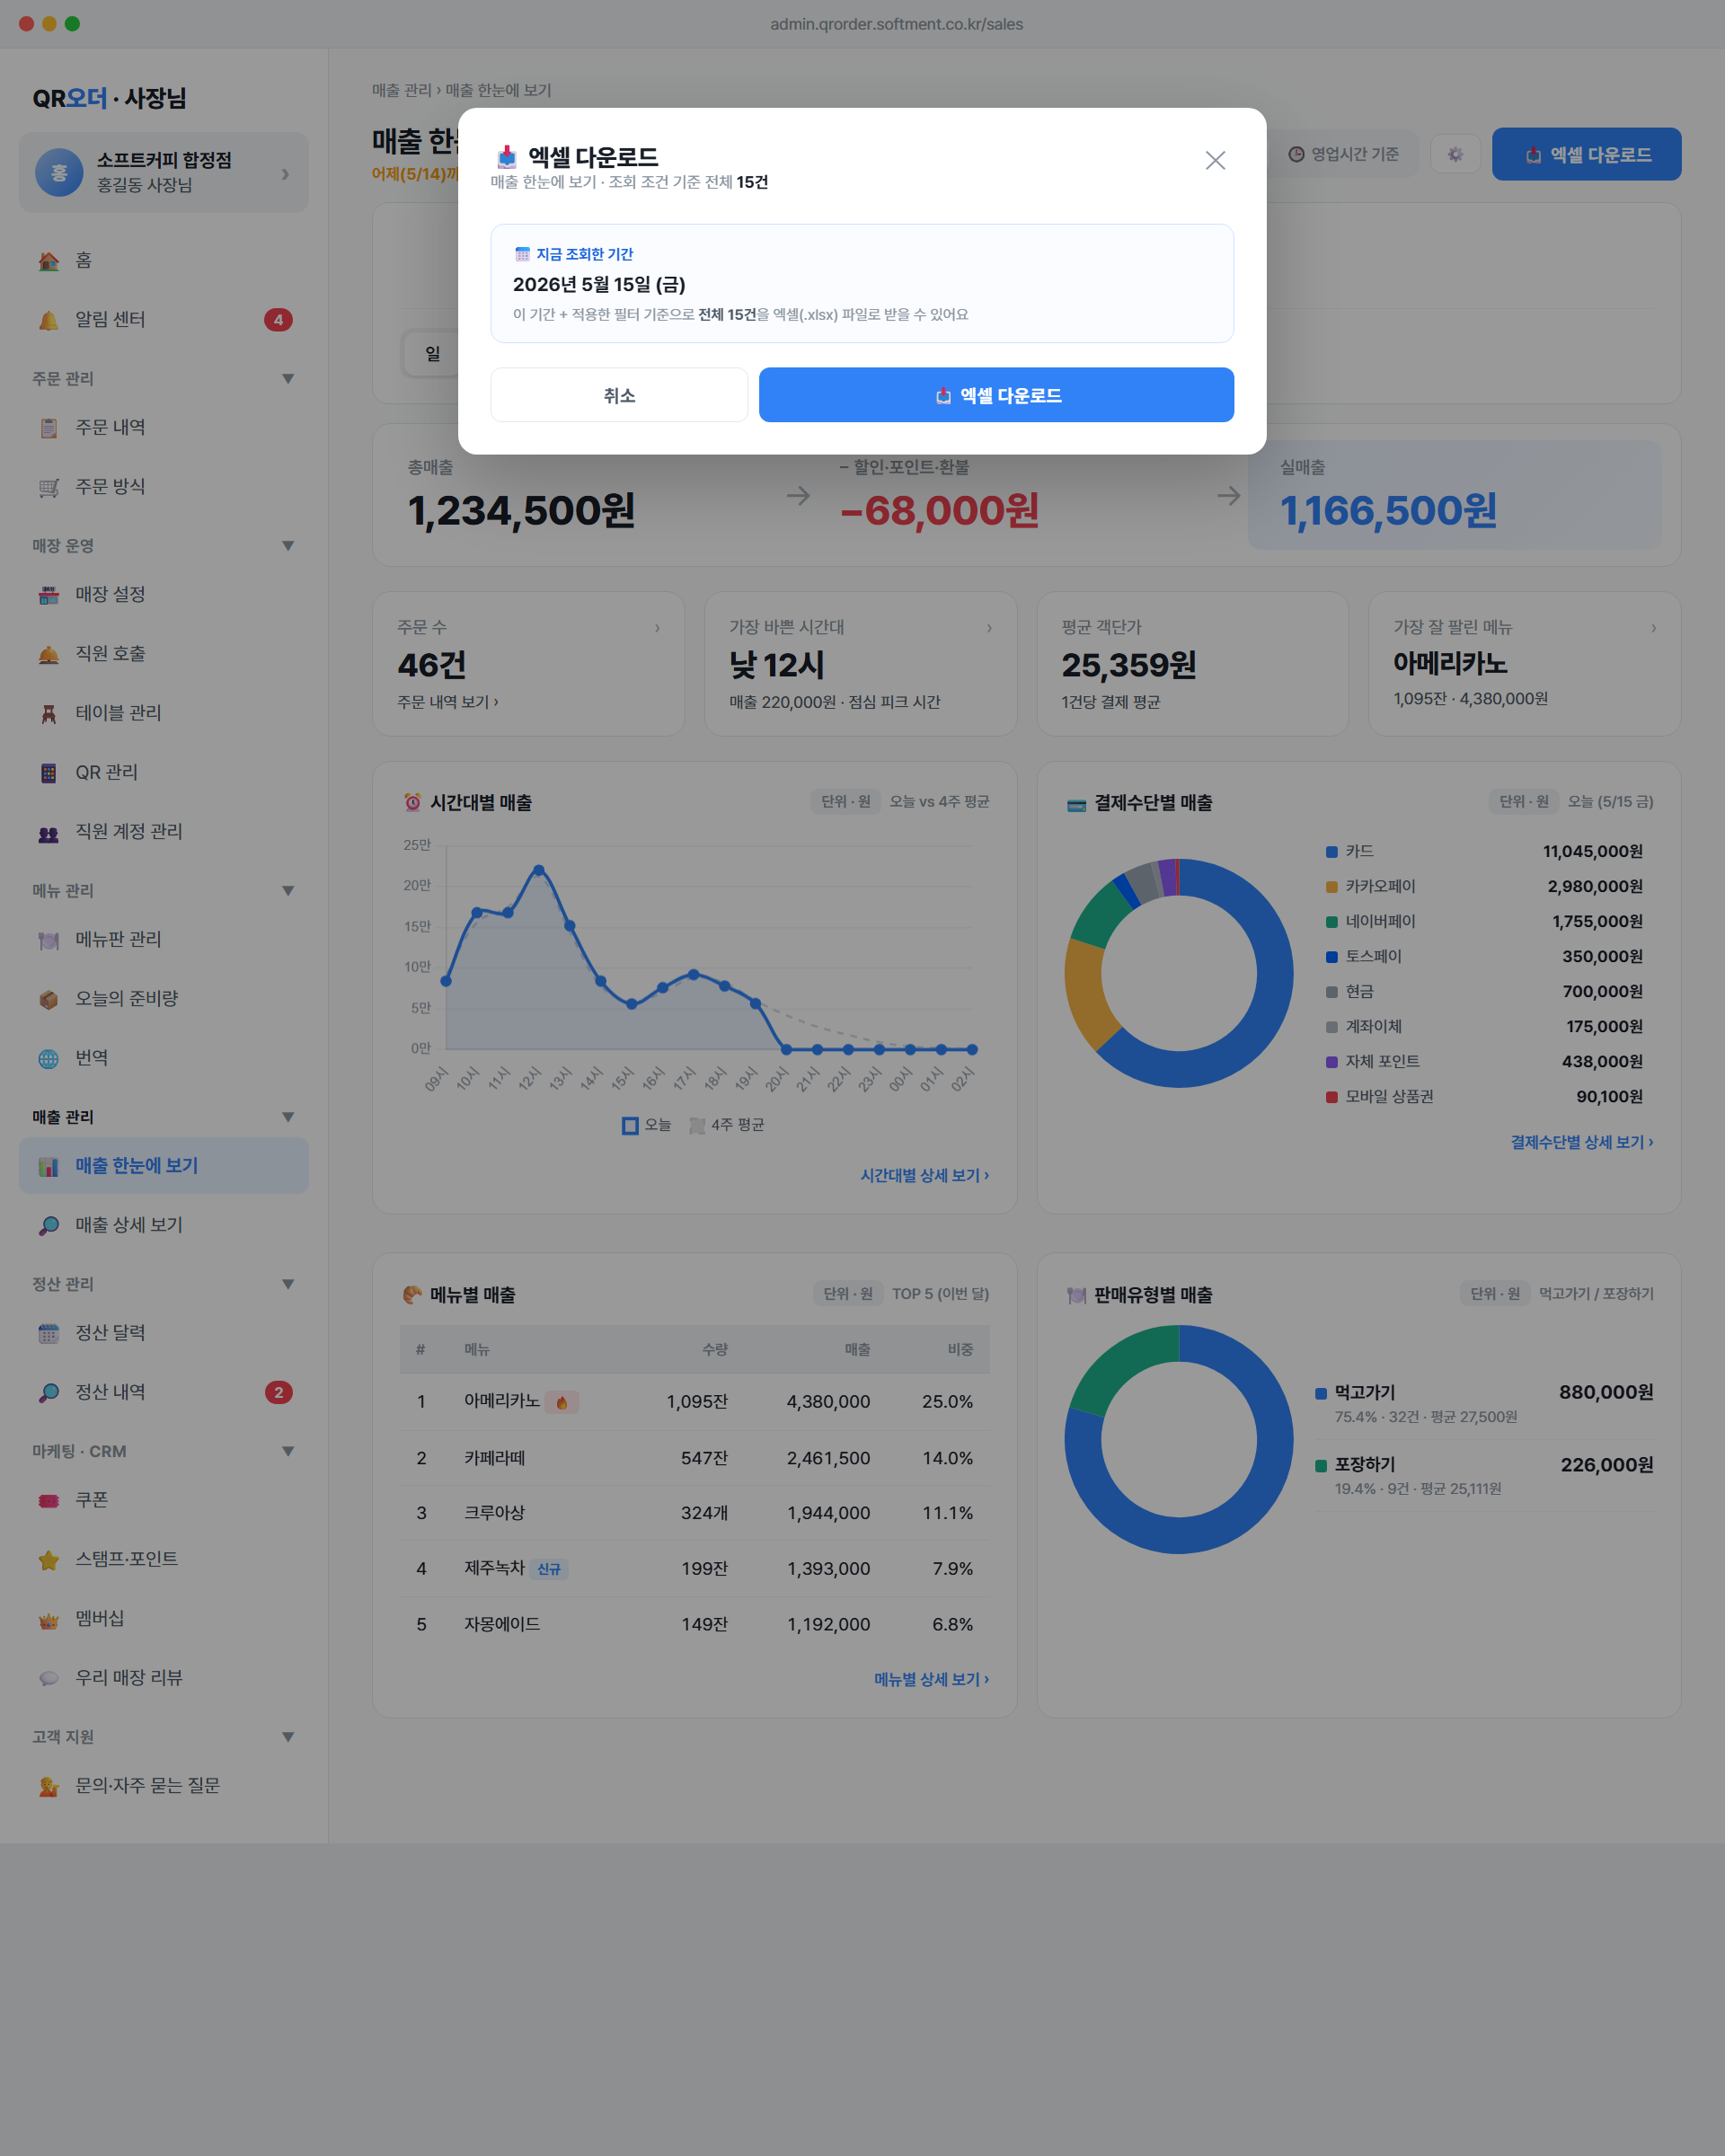
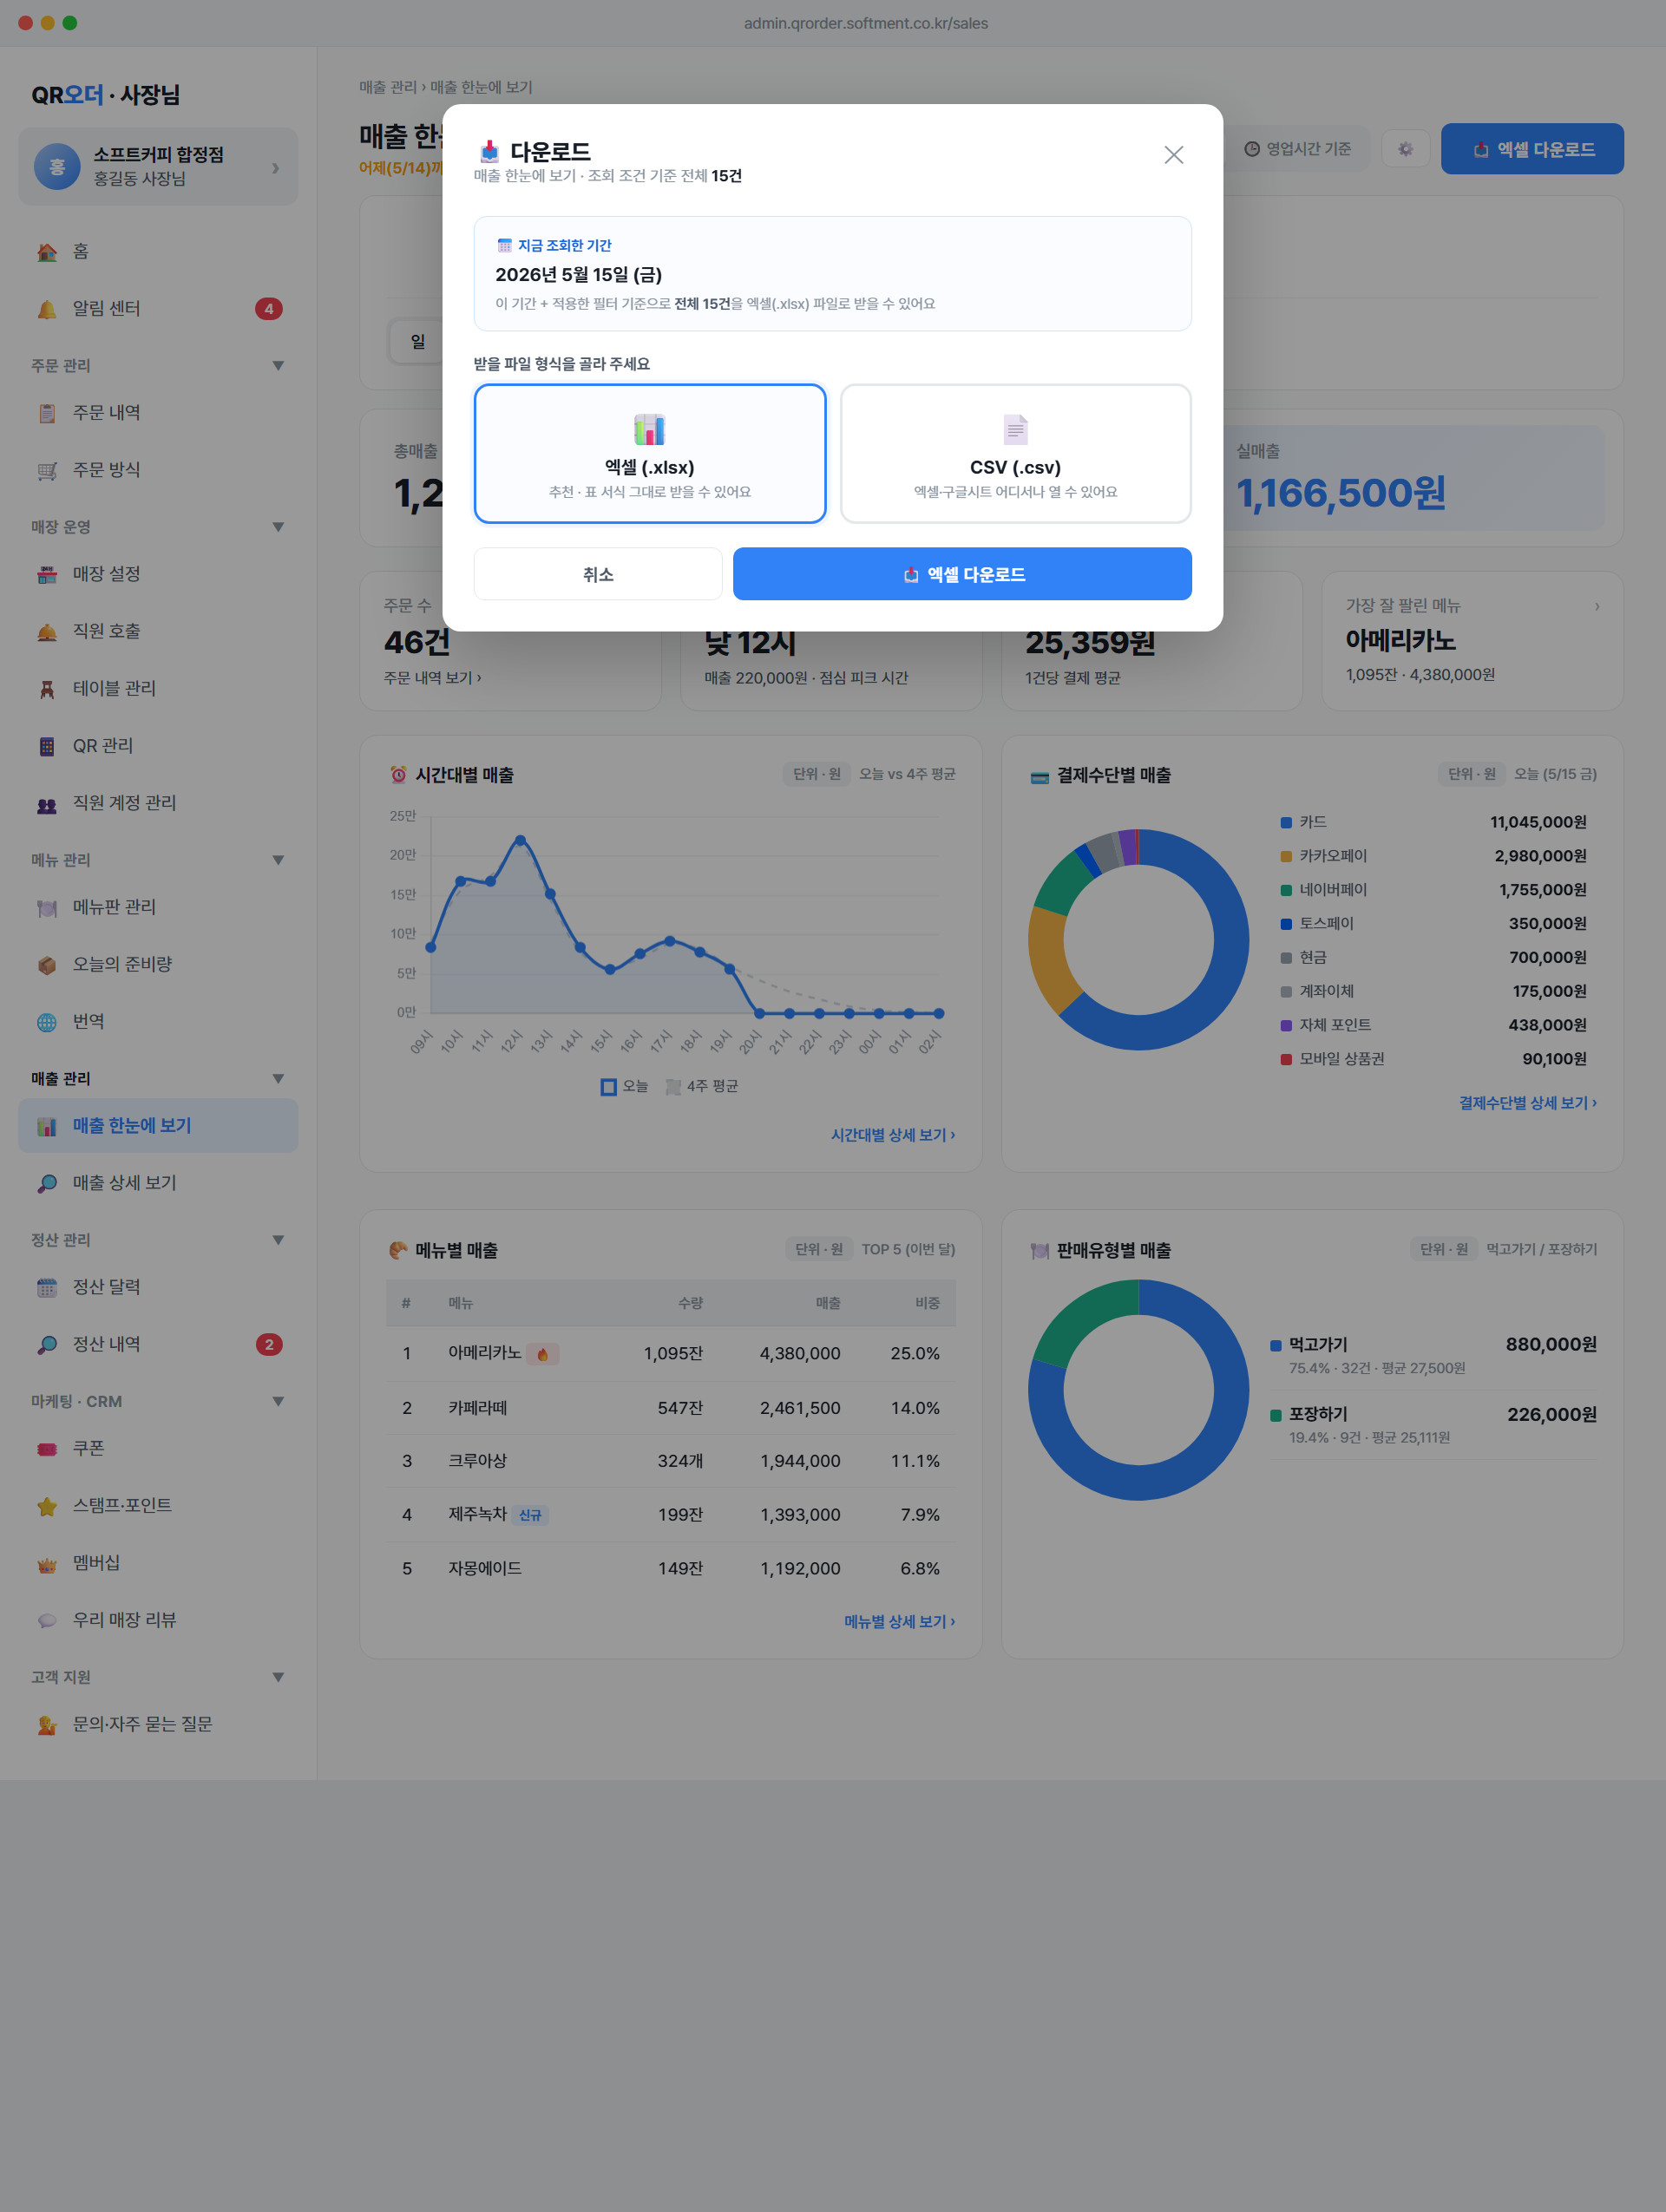
fix(admin): 다운로드 모달에 엑셀/CSV 형식 선택 복원
- 메인 버튼 라벨은 '📥 엑셀 다운로드'로 통일 유지
- 모달 안에서는 엑셀(.xlsx) / CSV(.csv) 두 형식 선택 카드 복원
- 선택한 형식에 따라 모달 다운로드 버튼 라벨 동적 변경 ('엑셀 다운로드' / 'CSV 다운로드')
- confirmExport/confirmMenuExport — CSV 선택 시 toCSV+triggerDownload 분기 복원
- 09 디스크립션 보드 갱신: '메인 버튼 통일 + 모달 형식 선택' 설계 원칙 반영
- 09 캡처 재실행 — 형식 선택 카드 보이도록

diff --git a/desc/recent/09-excel-download.html b/desc/recent/09-excel-download.html
@@ -3,7 +3,7 @@
 <head>
 <meta charset="utf-8">
 <meta name="viewport" content="width=device-width,initial-scale=1">
-<title>09 · 엑셀 다운로드 버튼 통일 — QR오더 점주 관리자</title>
+<title>09 · 다운로드 버튼 통일 (엑셀/CSV 선택은 모달에서) — QR오더 점주 관리자</title>
 <link rel="preconnect" href="https://cdn.jsdelivr.net">
 <link rel="stylesheet" href="https://cdn.jsdelivr.net/gh/orioncactus/pretendard@v1.3.9/dist/web/static/pretendard.min.css">
 <link rel="stylesheet" href="board.css">
@@ -13,24 +13,24 @@
   <a class="brd-back" href="index.html">← 목록으로</a>
   <header class="brd-head">
     <div class="brd-cat">공통 · 데이터 내려받기</div>
-    <h1 class="brd-title">09 · 엑셀 다운로드 버튼 통일</h1>
-    <p class="brd-sub">화면마다 다른 라벨(📤 내보내기 · 📤 엑셀로 받기 · 📥 엑셀·CSV 받기)을 <b>「📥 엑셀 다운로드」</b> 하나로 통일. CSV 옵션 제거.</p>
+    <h1 class="brd-title">09 · 다운로드 버튼 통일</h1>
+    <p class="brd-sub">화면마다 다른 라벨을 <b>「📥 엑셀 다운로드」</b> 하나로 통일. 클릭 시 모달에서 <b>엑셀(.xlsx) / CSV(.csv) 형식 선택</b> 후 다운로드.</p>
     <div class="brd-meta">
       <a href="https://jieunpark322.github.io/qrorder-mockup/" target="_blank">📍 라이브 보기</a>
       <span class="meta-key">적용 화면 — <b>매출 한눈에 보기 / 매출 상세 / 주문 내역 / 정산 내역 / 결제 내역 / 메뉴판 등 전 화면</b></span>
     </div>
   </header>
 
-  <section class="brd-cap"><img src="img/09-export.png" alt="화면 캡처" loading="lazy" /><div class="brd-cap-cap"><b>📷 화면 캡처</b> · 엑셀 다운로드 모달 — 매출 한눈에 보기에서 진입한 모습</div></section>
+  <section class="brd-cap"><img src="img/09-export.png" alt="화면 캡처" loading="lazy" /><div class="brd-cap-cap"><b>📷 화면 캡처</b> · 다운로드 모달 — 엑셀/CSV 형식 선택 카드 + 조회 기간 안내</div></section>
 
   <div class="brd-diff">
     <div class="brd-diff-card before">
       <div class="brd-diff-label">변경 전</div>
-      <div class="brd-diff-body">버튼 라벨이 화면마다 제각각 — 「📤 내보내기」 / 「📤 엑셀로 받기」 / 「📥 엑셀·CSV 받기」. 클릭하면 엑셀 vs CSV 형식 선택 카드 2개 노출. 사장님이 매번 선택 부담.</div>
+      <div class="brd-diff-body">버튼 라벨이 화면마다 제각각 — 「📤 내보내기」 / 「📤 엑셀로 받기」 / 「📥 엑셀·CSV 받기」. 사장님 입장에서 같은 기능을 다른 이름으로 학습해야 했음.</div>
     </div>
     <div class="brd-diff-card after">
       <div class="brd-diff-label">변경 후</div>
-      <div class="brd-diff-body">전 화면 <b>「📥 엑셀 다운로드」</b> 단일 라벨. CSV 옵션 제거. 모달에서 조회 기간·건수만 확인 후 한 번에 다운로드.</div>
+      <div class="brd-diff-body">전 화면 <b>「📥 엑셀 다운로드」</b> 단일 라벨. 클릭 시 모달에서 <b>엑셀 / CSV 형식</b>을 골라서 받기 — 한 화면에서 두 형식 모두 지원.</div>
     </div>
   </div>
 
@@ -40,7 +40,7 @@
     <div class="brd-pin">
       <div class="brd-pin-head">
         <div class="brd-pin-no">1</div>
-        <div class="brd-pin-ttl">통일된 📥 엑셀 다운로드 버튼</div>
+        <div class="brd-pin-ttl">통일된 📥 엑셀 다운로드 메인 버튼</div>
         <div class="brd-pin-where">매출·정산·주문·메뉴 화면 우측 상단 툴바</div>
       </div>
       <div class="brd-pin-grid">
@@ -48,26 +48,17 @@
           <div class="brd-pin-cat">🎯 기능·목적</div>
           <ul>
             <li>화면마다 다른 라벨을 통일해 사장님 학습 부담 제거</li>
-            <li>「내보내기」「받기」 같은 추상적 단어 대신 직접적 「엑셀 다운로드」 사용</li>
-            <li>📥 아이콘으로 "받기 = 내려받기" 시각화</li>
+            <li>📥 아이콘으로 "내려받기"라는 행동 명확히 전달</li>
+            <li>가장 자주 쓰이는 형식(엑셀)을 라벨에 노출 — 사장님이 "엑셀 받을 거"라는 기대로 클릭</li>
           </ul>
         </div>
         <div class="brd-pin-col beha">
           <div class="brd-pin-cat">⚙️ 동작·상태값</div>
           <ul>
             <li>버튼 — <code>btn-primary</code> 스타일 (파란 배경)</li>
-            <li>클릭 시 <code>openExport(rowsCount, source, dateRange)</code> 호출</li>
-            <li>각 화면 자체 다운로드 — <code>openMenuExport()</code> 메뉴 다운로드는 별도</li>
-            <li>옛 라벨 모두 일괄 변경 — <code>replace_all</code>로 「📤 내보내기」 → 「📥 엑셀 다운로드」, 「📤 엑셀로 받기」 → 「📥 엑셀 다운로드」</li>
-          </ul>
-        </div>
-        <div class="brd-pin-col data">
-          <div class="brd-pin-cat">🔌 데이터·연동</div>
-          <ul>
-            <li>호출 — <code>openExport(rowsCount, source, dateRange)</code></li>
-            <li>모달 상태 — <code>state.exportRowsCount/exportSource/exportDateRange</code></li>
-            <li>형식 — <code>state.exportFormat = 'xlsx'</code> 고정</li>
-            <li>적용 화면: 매출 한눈에 보기 · 매출 상세 · 주문 내역 · 정산 내역 · 결제 내역 · 메뉴판 등</li>
+            <li>클릭 시 <code>openExport(rowsCount, source, dateRange)</code> 호출 → 모달 오픈</li>
+            <li>메뉴판은 별도 — <code>openMenuExport()</code> (가져오기 양식과 동일 컬럼)</li>
+            <li>옛 라벨 일괄 변경 — 「📤 내보내기」 · 「📤 엑셀로 받기」 · 「📥 엑셀·CSV 받기」 → 「📥 엑셀 다운로드」</li>
           </ul>
         </div>
         <div class="brd-pin-col exc">
@@ -76,6 +67,7 @@
             <li>title: 없음 (라벨이 충분히 명확)</li>
             <li>호버 시 색만 조금 진해짐 (<code>#1e6cd9</code>)</li>
             <li>안내문도 통일 — <code>엑셀 다운로드는 조회된 N건 전체</code></li>
+            <li>모달 안에서 CSV 선택해도 메인 버튼 라벨은 그대로 「엑셀 다운로드」</li>
           </ul>
         </div>
       </div>
@@ -84,43 +76,36 @@
     <div class="brd-pin">
       <div class="brd-pin-head">
         <div class="brd-pin-no">2</div>
-        <div class="brd-pin-ttl">단순화된 다운로드 모달</div>
-        <div class="brd-pin-where">버튼 클릭 후 열리는 모달</div>
+        <div class="brd-pin-ttl">모달 — 엑셀 / CSV 형식 선택 카드</div>
+        <div class="brd-pin-where">버튼 클릭 후 열리는 모달 본문 중앙</div>
       </div>
       <div class="brd-pin-grid">
         <div class="brd-pin-col purp">
           <div class="brd-pin-cat">🎯 기능·목적</div>
           <ul>
-            <li>형식 선택 단계 제거 — 1 step으로 단순화</li>
-            <li>다운로드 직전에 조회 기간·건수 확인 (실수 방지)</li>
-            <li>모달 그대로 누르면 엑셀 다운로드</li>
+            <li>모달에서 형식을 골라 받을 수 있게 — 두 형식 모두 지원</li>
+            <li>다운로드 직전에 조회 기간·건수·형식 한 번에 확인 (실수 방지)</li>
+            <li>기본 선택: 엑셀 (마지막 선택 기억 — 다음에 모달 열어도 같은 형식)</li>
           </ul>
         </div>
         <div class="brd-pin-col beha">
           <div class="brd-pin-cat">⚙️ 동작·상태값</div>
           <ul>
-            <li>헤더: <code>📥 엑셀 다운로드</code> — sub: <code>${source} · 조회 조건 기준 전체 N건</code></li>
-            <li>본문 1 — 파란 카드 「📅 지금 조회한 기간」 (dateRange 있으면)</li>
-            <li>본문 2 — 회색 카드 「📊 적용한 필터 기준으로 전체 N건을 엑셀(.xlsx) 파일로…」 (dateRange 없으면)</li>
-            <li>버튼: <code>[취소]</code> <code>[📥 엑셀 다운로드]</code></li>
+            <li>헤더: <code>📥 다운로드</code> — sub: <code>${source} · 조회 조건 기준 전체 N건</code></li>
+            <li>본문 상단 — 파란 카드 「📅 지금 조회한 기간」 (dateRange 있으면)</li>
+            <li>본문 중앙 — 형식 선택 카드 2개 (엑셀 .xlsx / CSV .csv)</li>
+            <li>선택한 형식에 따라 메인 다운로드 버튼 라벨 동적 변경 — <code>📥 엑셀 다운로드</code> 또는 <code>📥 CSV 다운로드</code></li>
+            <li>버튼: <code>[취소]</code> <code>[📥 엑셀 다운로드 / 📥 CSV 다운로드]</code></li>
             <li>확인 — <code>confirmExport(cnt, src)</code> → 토스트 + 모달 닫기</li>
-          </ul>
-        </div>
-        <div class="brd-pin-col data">
-          <div class="brd-pin-cat">🔌 데이터·연동</div>
-          <ul>
-            <li>형식 선택 카드(<code>exportFormatCards</code>) 호출 제거</li>
-            <li><code>state.exportFormat = 'xlsx'</code> 강제 설정</li>
-            <li>CSV 변환 함수(<code>toCSV</code>)는 유지하되 사용 안 함 (코드 폐기 X)</li>
-            <li>XLSX 라이브러리(SheetJS) 로딩 필수</li>
           </ul>
         </div>
         <div class="brd-pin-col exc">
           <div class="brd-pin-cat">⚠️ 예외·UX 문구</div>
           <ul>
+            <li>형식 선택 카드 라벨 — <code>📊 엑셀 (.xlsx) · 추천 · 표 서식 그대로 받을 수 있어요</code> / <code>📄 CSV (.csv) · 엑셀·구글시트 어디서나 열 수 있어요</code></li>
             <li>0건 — 모달은 열리지만 안내 카드에 "전체 0건" 표시 (다운로드 가능)</li>
-            <li>XLSX 라이브러리 미로드 — <code>alert('엑셀 라이브러리를 불러오는 중이에요...')</code></li>
-            <li>완료 토스트 — <code>📥 [source] N건을 엑셀 파일로 내려받았어요</code></li>
+            <li>엑셀 라이브러리(SheetJS) 미로드 — <code>alert('엑셀 라이브러리를 불러오는 중이에요...')</code></li>
+            <li>완료 토스트 — <code>📥 [source] N건을 엑셀/CSV 파일로 내려받았어요</code> (선택 형식 반영)</li>
             <li>모달 외 클릭 시 자동 닫힘</li>
           </ul>
         </div>
@@ -130,33 +115,24 @@
     <div class="brd-pin">
       <div class="brd-pin-head">
         <div class="brd-pin-no">3</div>
-        <div class="brd-pin-ttl">메뉴 내려받기 — 같은 패턴 적용</div>
+        <div class="brd-pin-ttl">메뉴 내려받기 — 동일 패턴</div>
         <div class="brd-pin-where">메뉴 관리 → 메뉴판 → 📥 엑셀 다운로드</div>
       </div>
       <div class="brd-pin-grid">
         <div class="brd-pin-col purp">
           <div class="brd-pin-cat">🎯 기능·목적</div>
           <ul>
-            <li>등록된 메뉴 전체를 엑셀로 내려받기 (가져오기 양식과 동일 컬럼)</li>
+            <li>등록된 메뉴 전체를 엑셀/CSV로 내려받기 (가져오기 양식과 동일 컬럼)</li>
             <li>수정 후 그대로 재업로드 가능 (왕복 워크플로)</li>
           </ul>
         </div>
         <div class="brd-pin-col beha">
           <div class="brd-pin-cat">⚙️ 동작·상태값</div>
           <ul>
-            <li>버튼 라벨 — 「📥 엑셀·CSV 받기」 → 「📥 엑셀 다운로드」</li>
-            <li>모달 — 옛 형식 선택 카드 제거</li>
-            <li>다운로드 함수: <code>confirmMenuExport()</code> → SheetJS로 .xlsx 생성</li>
-            <li>파일명: <code>qrorder-menu-YYYY-MM-DD.xlsx</code></li>
-          </ul>
-        </div>
-        <div class="brd-pin-col data">
-          <div class="brd-pin-cat">🔌 데이터·연동</div>
-          <ul>
-            <li>대상: <code>MENUS</code> 전체</li>
-            <li>컬럼: <code>MENU_EXCEL_COLUMNS</code> (가져오기 양식과 동일)</li>
-            <li>워크시트: <code>XLSX.utils.aoa_to_sheet</code> + 컬럼 너비 조정</li>
-            <li>저장: <code>XLSX.writeFile(wb, filename)</code></li>
+            <li>버튼 라벨 — 「📥 엑셀 다운로드」 (옛 「📥 엑셀·CSV 받기」)</li>
+            <li>모달 — 동일 형식 선택 카드 + 「📥 엑셀/CSV 다운로드」 버튼</li>
+            <li>엑셀: SheetJS의 <code>XLSX.writeFile</code> / CSV: <code>toCSV</code> + <code>triggerDownload</code></li>
+            <li>파일명: <code>qrorder-menu-YYYY-MM-DD.xlsx</code> 또는 <code>.csv</code></li>
           </ul>
         </div>
         <div class="brd-pin-col exc">
@@ -164,7 +140,7 @@
           <ul>
             <li>안내: <i>"받은 파일은 📊 엑셀로 한 번에 올리기 양식과 컬럼이 같아, 수정해서 그대로 다시 올릴 수 있어요."</i></li>
             <li>title: "등록된 메뉴를 엑셀(.xlsx) 파일로 내려받을 수 있어요"</li>
-            <li>완료 토스트: <code>📥 메뉴 N개를 엑셀 파일로 내려받았어요</code></li>
+            <li>완료 토스트: <code>📥 메뉴 N개를 엑셀/CSV 파일로 내려받았어요</code></li>
           </ul>
         </div>
       </div>
@@ -172,12 +148,7 @@
   </section>
 
   <div class="brd-note">
-    <b>일괄 변경 흔적</b><br/>
-    • <code>📤 내보내기</code> → <code>📥 엑셀 다운로드</code> (replace_all)<br/>
-    • <code>📤 엑셀로 받기</code> → <code>📥 엑셀 다운로드</code> (replace_all)<br/>
-    • <code>📥 엑셀·CSV 받기</code> → <code>📥 엑셀 다운로드</code> (메뉴판)<br/>
-    • <code>exportFormatCards</code> 호출 — <code>renderExportModal</code>·<code>renderMenuExportModal</code>에서 모두 제거<br/>
-    • <code>toCSV</code> · <code>triggerDownload</code> 함수는 유지 (다른 곳에서 미사용이지만 향후 필요 시 사용)
+    <b>설계 원칙</b> — 메인 버튼 라벨은 <b>고정 통일</b>(엑셀 다운로드)이고, 실제 받을 형식은 모달 한 화면에서 선택해요. 사장님은 평소엔 엑셀로 받지만, 다른 시스템과 호환이 필요할 때만 CSV를 골라 받을 수 있어요. 두 형식을 모두 지원하면서도 버튼 자체는 단일해서 화면 간 일관성이 유지됩니다.
   </div>
 </div>
 </body>

diff --git a/index.html b/index.html
@@ -5200,13 +5200,13 @@ function pickExportFormat(fmt){
 function renderExportModal(){
   const rowsCount = state.exportRowsCount;
   const source = state.exportSource;
-  // CSV 옵션 제거 — 엑셀로만 다운로드
-  state.exportFormat = 'xlsx';
+  if(!state.exportFormat) state.exportFormat = 'xlsx';
+  const ext = state.exportFormat==='csv' ? 'CSV(.csv)' : '엑셀(.xlsx)';
   const modal = document.getElementById('modal');
   modal.innerHTML = `
     <div class="modal-head">
       <div>
-        <h3>📥 엑셀 다운로드</h3>
+        <h3>📥 다운로드</h3>
         <div class="modal-sub">${source} · 조회 조건 기준 전체 <b style="color:var(--ink);">${fmt(rowsCount)}건</b></div>
       </div>
       <button class="close" onclick="closeModal()">✕</button>
@@ -5216,23 +5216,30 @@ function renderExportModal(){
       <div style="padding:14px 16px;background:#fafcff;border:1px solid var(--blue-100);border-radius:10px;margin-bottom:18px;">
         <div style="font-size:11px;color:#1b64da;font-weight:700;margin-bottom:6px;">📅 지금 조회한 기간</div>
         <div style="font-size:14px;color:var(--ink);font-weight:700;line-height:1.4;">${state.exportDateRange}</div>
-        <div style="font-size:11px;color:var(--ink-3);margin-top:6px;">이 기간 + 적용한 필터 기준으로 <b style="color:var(--ink-2);">전체 ${fmt(rowsCount)}건</b>을 엑셀(.xlsx) 파일로 받을 수 있어요</div>
+        <div style="font-size:11px;color:var(--ink-3);margin-top:6px;">이 기간 + 적용한 필터 기준으로 <b style="color:var(--ink-2);">전체 ${fmt(rowsCount)}건</b>을 ${ext} 파일로 받을 수 있어요</div>
       </div>
     ` : `
       <div style="padding:12px 14px;background:#fafbfc;border:1px solid var(--line);border-radius:10px;margin-bottom:18px;font-size:12px;color:var(--ink-2);line-height:1.55;">
-        📊 적용한 필터 기준으로 <b style="color:var(--ink);">전체 ${fmt(rowsCount)}건</b>을 엑셀(.xlsx) 파일로 받을 수 있어요.
+        📊 적용한 필터 기준으로 <b style="color:var(--ink);">전체 ${fmt(rowsCount)}건</b>을 받을 수 있어요.
       </div>
     `}
 
+    ${exportFormatCards('pickExportFormat')}
+
     <div style="display:flex;gap:8px;margin-top:8px;">
       <button class="btn-ghost" style="flex:1;" onclick="closeModal()">취소</button>
-      <button class="btn-primary" style="flex:2;" onclick='confirmExport(${rowsCount},${JSON.stringify(source)})'>📥 엑셀 다운로드</button>
+      <button class="btn-primary" style="flex:2;" onclick='confirmExport(${rowsCount},${JSON.stringify(source)})'>${state.exportFormat==='csv'?'📥 CSV 다운로드':'📥 엑셀 다운로드'}</button>
     </div>
   `;
 }
+function pickExportFormat(fmt){
+  state.exportFormat = fmt;
+  renderExportModal();
+}
 function confirmExport(cnt, src){
+  const label = state.exportFormat==='csv' ? 'CSV' : '엑셀';
   closeModal();
-  showToast(`<span class="ic">📥</span> ${src} ${fmt(cnt)}건을 엑셀 파일로 내려받았어요`, 'ok');
+  showToast(`<span class="ic">📥</span> ${src} ${fmt(cnt)}건을 ${label} 파일로 내려받았어요`, 'ok');
 }
 
 function openOrderDetail(o){
@@ -6233,26 +6240,32 @@ function applyMenuExcel(){
   renderApp();
 }
 
-// 등록 메뉴 엑셀 다운로드 (가져오기 양식과 동일한 컬럼이라 그대로 다시 올릴 수 있어요)
+// 등록 메뉴 다운로드 — 엑셀(.xlsx) / CSV(.csv) 택 1
 function openMenuExport(){
-  state.exportFormat = 'xlsx';
+  if(!state.exportFormat) state.exportFormat = 'xlsx';
   renderMenuExportModal();
   document.getElementById('modal-bg').classList.add('on');
 }
+function pickMenuExportFormat(fmt){
+  state.exportFormat = fmt;
+  renderMenuExportModal();
+}
 function renderMenuExportModal(){
   const modal = document.getElementById('modal');
+  const isCsv = state.exportFormat==='csv';
   modal.innerHTML = `
     <div class="modal-head">
       <div>
-        <h3>📥 엑셀 다운로드</h3>
-        <div class="modal-sub">등록된 메뉴 <b style="color:var(--ink);">${fmt(MENUS.length)}개</b>를 엑셀(.xlsx) 파일로 받을 수 있어요</div>
+        <h3>📥 다운로드</h3>
+        <div class="modal-sub">등록된 메뉴 <b style="color:var(--ink);">${fmt(MENUS.length)}개</b>를 파일로 받을 수 있어요</div>
       </div>
       <button class="close" onclick="closeModal()">✕</button>
     </div>
+    ${exportFormatCards('pickMenuExportFormat')}
     <div style="font-size:12px;color:var(--ink-3);margin-bottom:14px;background:#fafcff;border:1px solid var(--blue-100);border-radius:8px;padding:12px 14px;line-height:1.55;">💡 받은 파일은 <b style="color:var(--ink-2);">📊 엑셀로 한 번에 올리기</b> 양식과 컬럼이 같아, 수정해서 그대로 다시 올릴 수 있어요.</div>
     <div style="display:flex;gap:8px;">
       <button class="btn-ghost" style="flex:1;" onclick="closeModal()">취소</button>
-      <button class="btn-primary" style="flex:2;" onclick="confirmMenuExport()">📥 엑셀 다운로드</button>
+      <button class="btn-primary" style="flex:2;" onclick="confirmMenuExport()">${isCsv?'📥 CSV 다운로드':'📥 엑셀 다운로드'}</button>
     </div>
   `;
 }
@@ -6265,8 +6278,16 @@ function menuExportRows(){
   ]);
 }
 function confirmMenuExport(){
+  const isCsv = state.exportFormat==='csv';
   const rows = menuExportRows();
   const date = new Date().toISOString().slice(0,10);
+  if(isCsv){
+    const blob = new Blob([toCSV(MENU_EXCEL_COLUMNS, rows)], { type:'text/csv;charset=utf-8;' });
+    triggerDownload(blob, `qrorder-menu-${date}.csv`);
+    closeModal();
+    showToast(`<span class="ic">📥</span> 메뉴 ${fmt(MENUS.length)}개를 CSV 파일로 내려받았어요`, 'ok');
+    return;
+  }
   if(typeof XLSX==='undefined'){ alert('엑셀 라이브러리를 불러오는 중이에요. 잠시 후 다시 시도해 주세요.'); return; }
   const ws = XLSX.utils.aoa_to_sheet([MENU_EXCEL_COLUMNS, ...rows]);
   ws['!cols'] = MENU_EXCEL_COLUMNS.map(c=>({ wch: Math.max(c.length*2.2, 14) }));